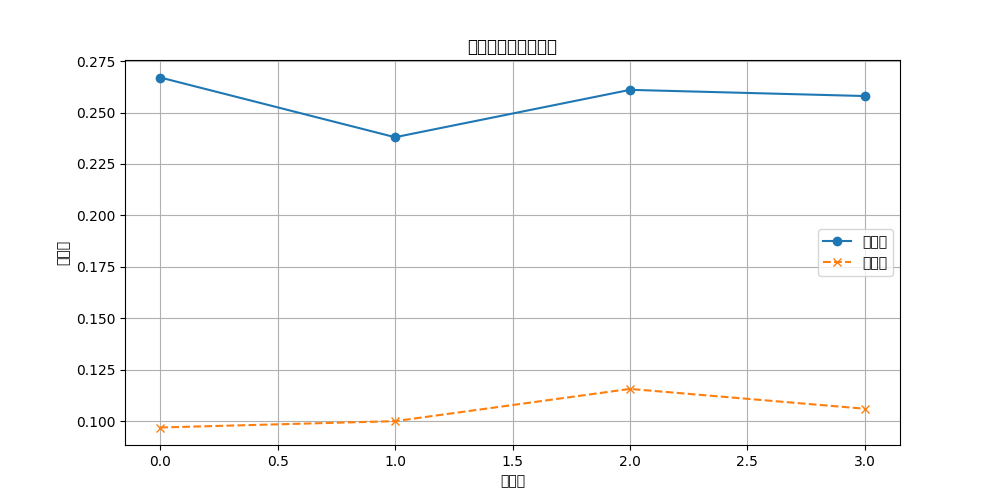
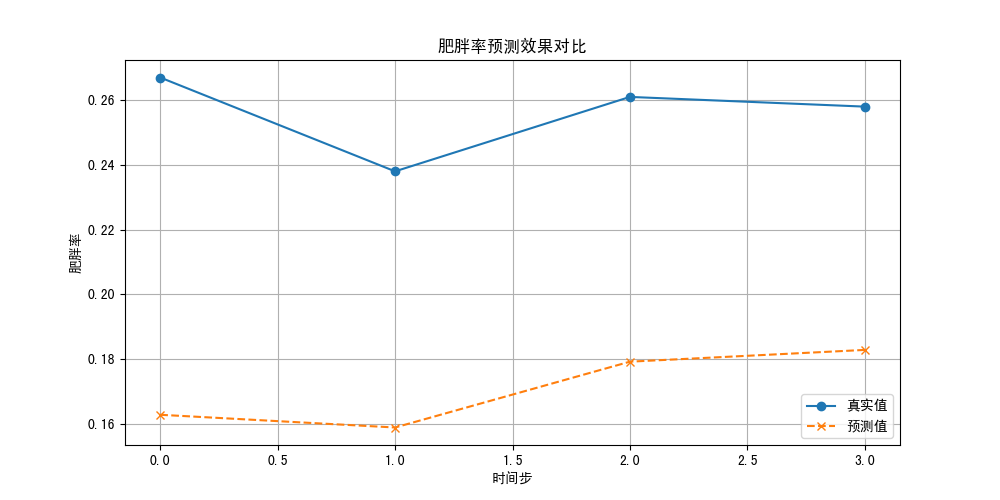
0407 基础版本1.0
本次项目项目升级实现了基本的输出 main文件可以稳定运行 但缺乏baseline的模型结果

diff --git a/utils/visualize.py b/utils/visualize.py
@@ -1,4 +1,6 @@
 import matplotlib.pyplot as plt
+plt.rcParams['font.sans-serif'] = ['SimHei']  # 设置中文字体为黑体
+plt.rcParams['axes.unicode_minus'] = False    # 解决负号显示问题
 import numpy as np
 
 def plot_results(ground_truth, predictions, save_path="results/figures/result.png"):

diff --git a/main.py b/main.py
@@ -24,5 +24,7 @@ def main():
     plot_results(y[-10:], preds, save_path="results/figures/result.png")
 
 
+
+
 if __name__ == "__main__":
     main()
